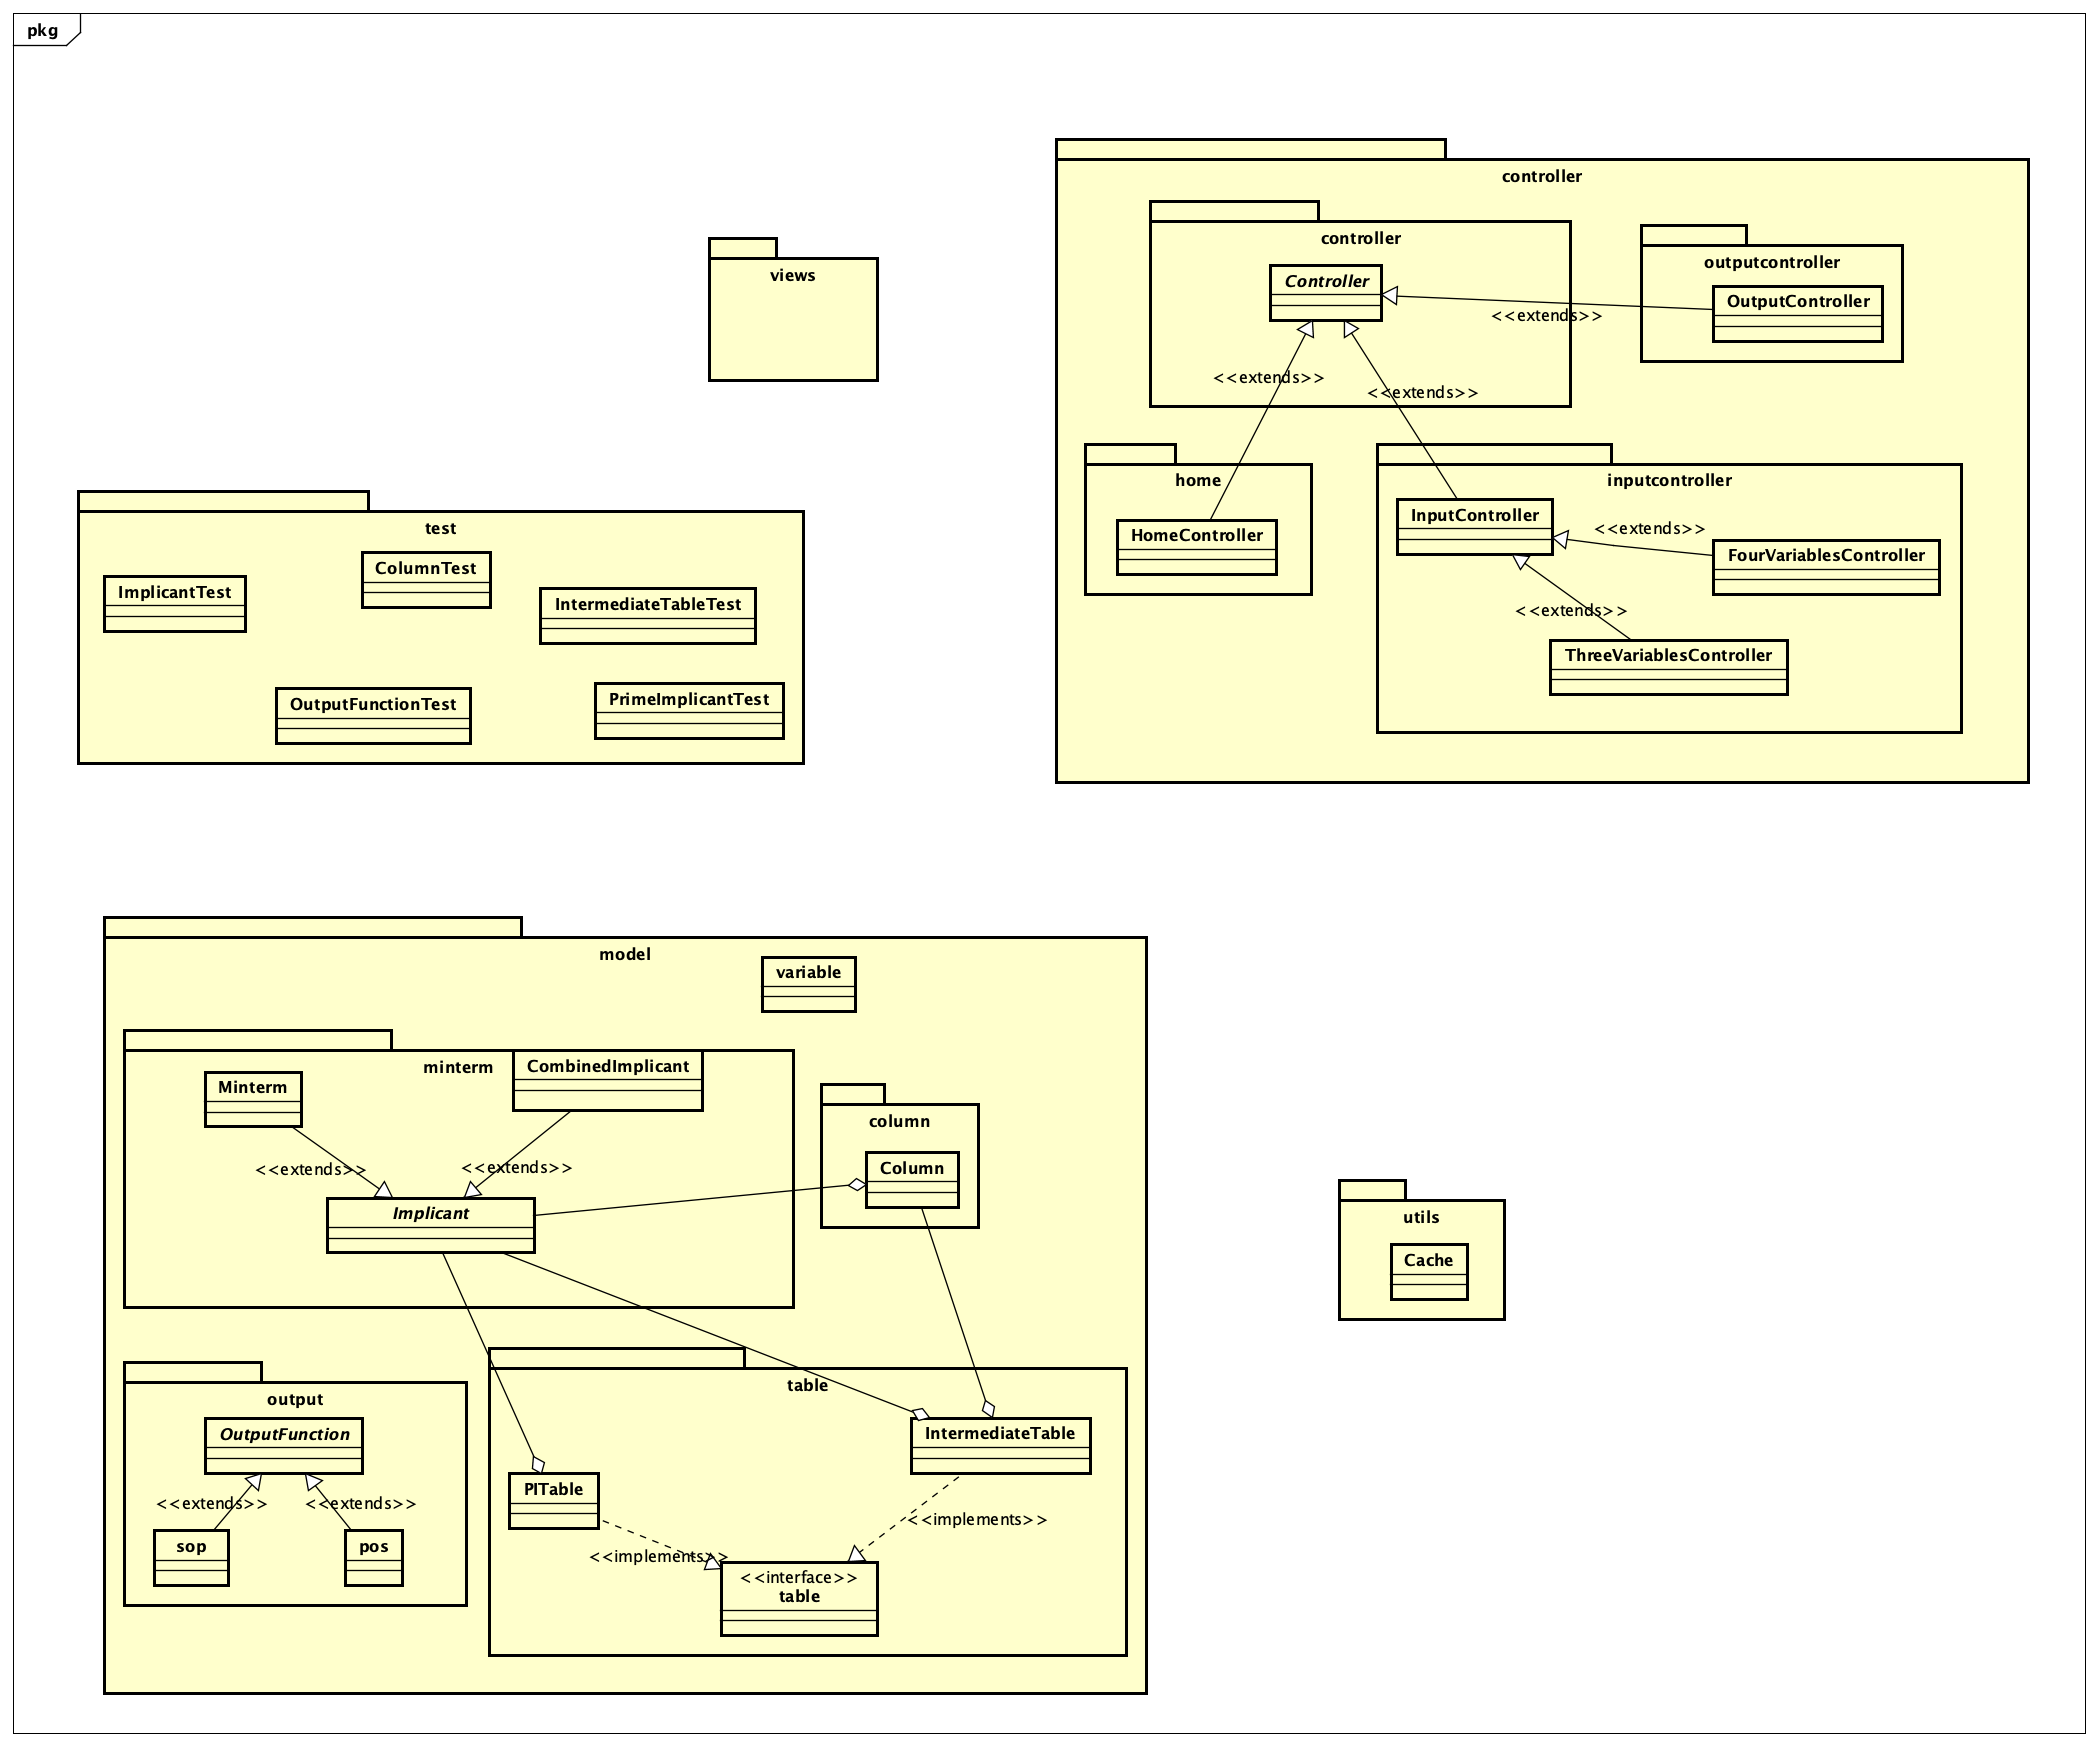
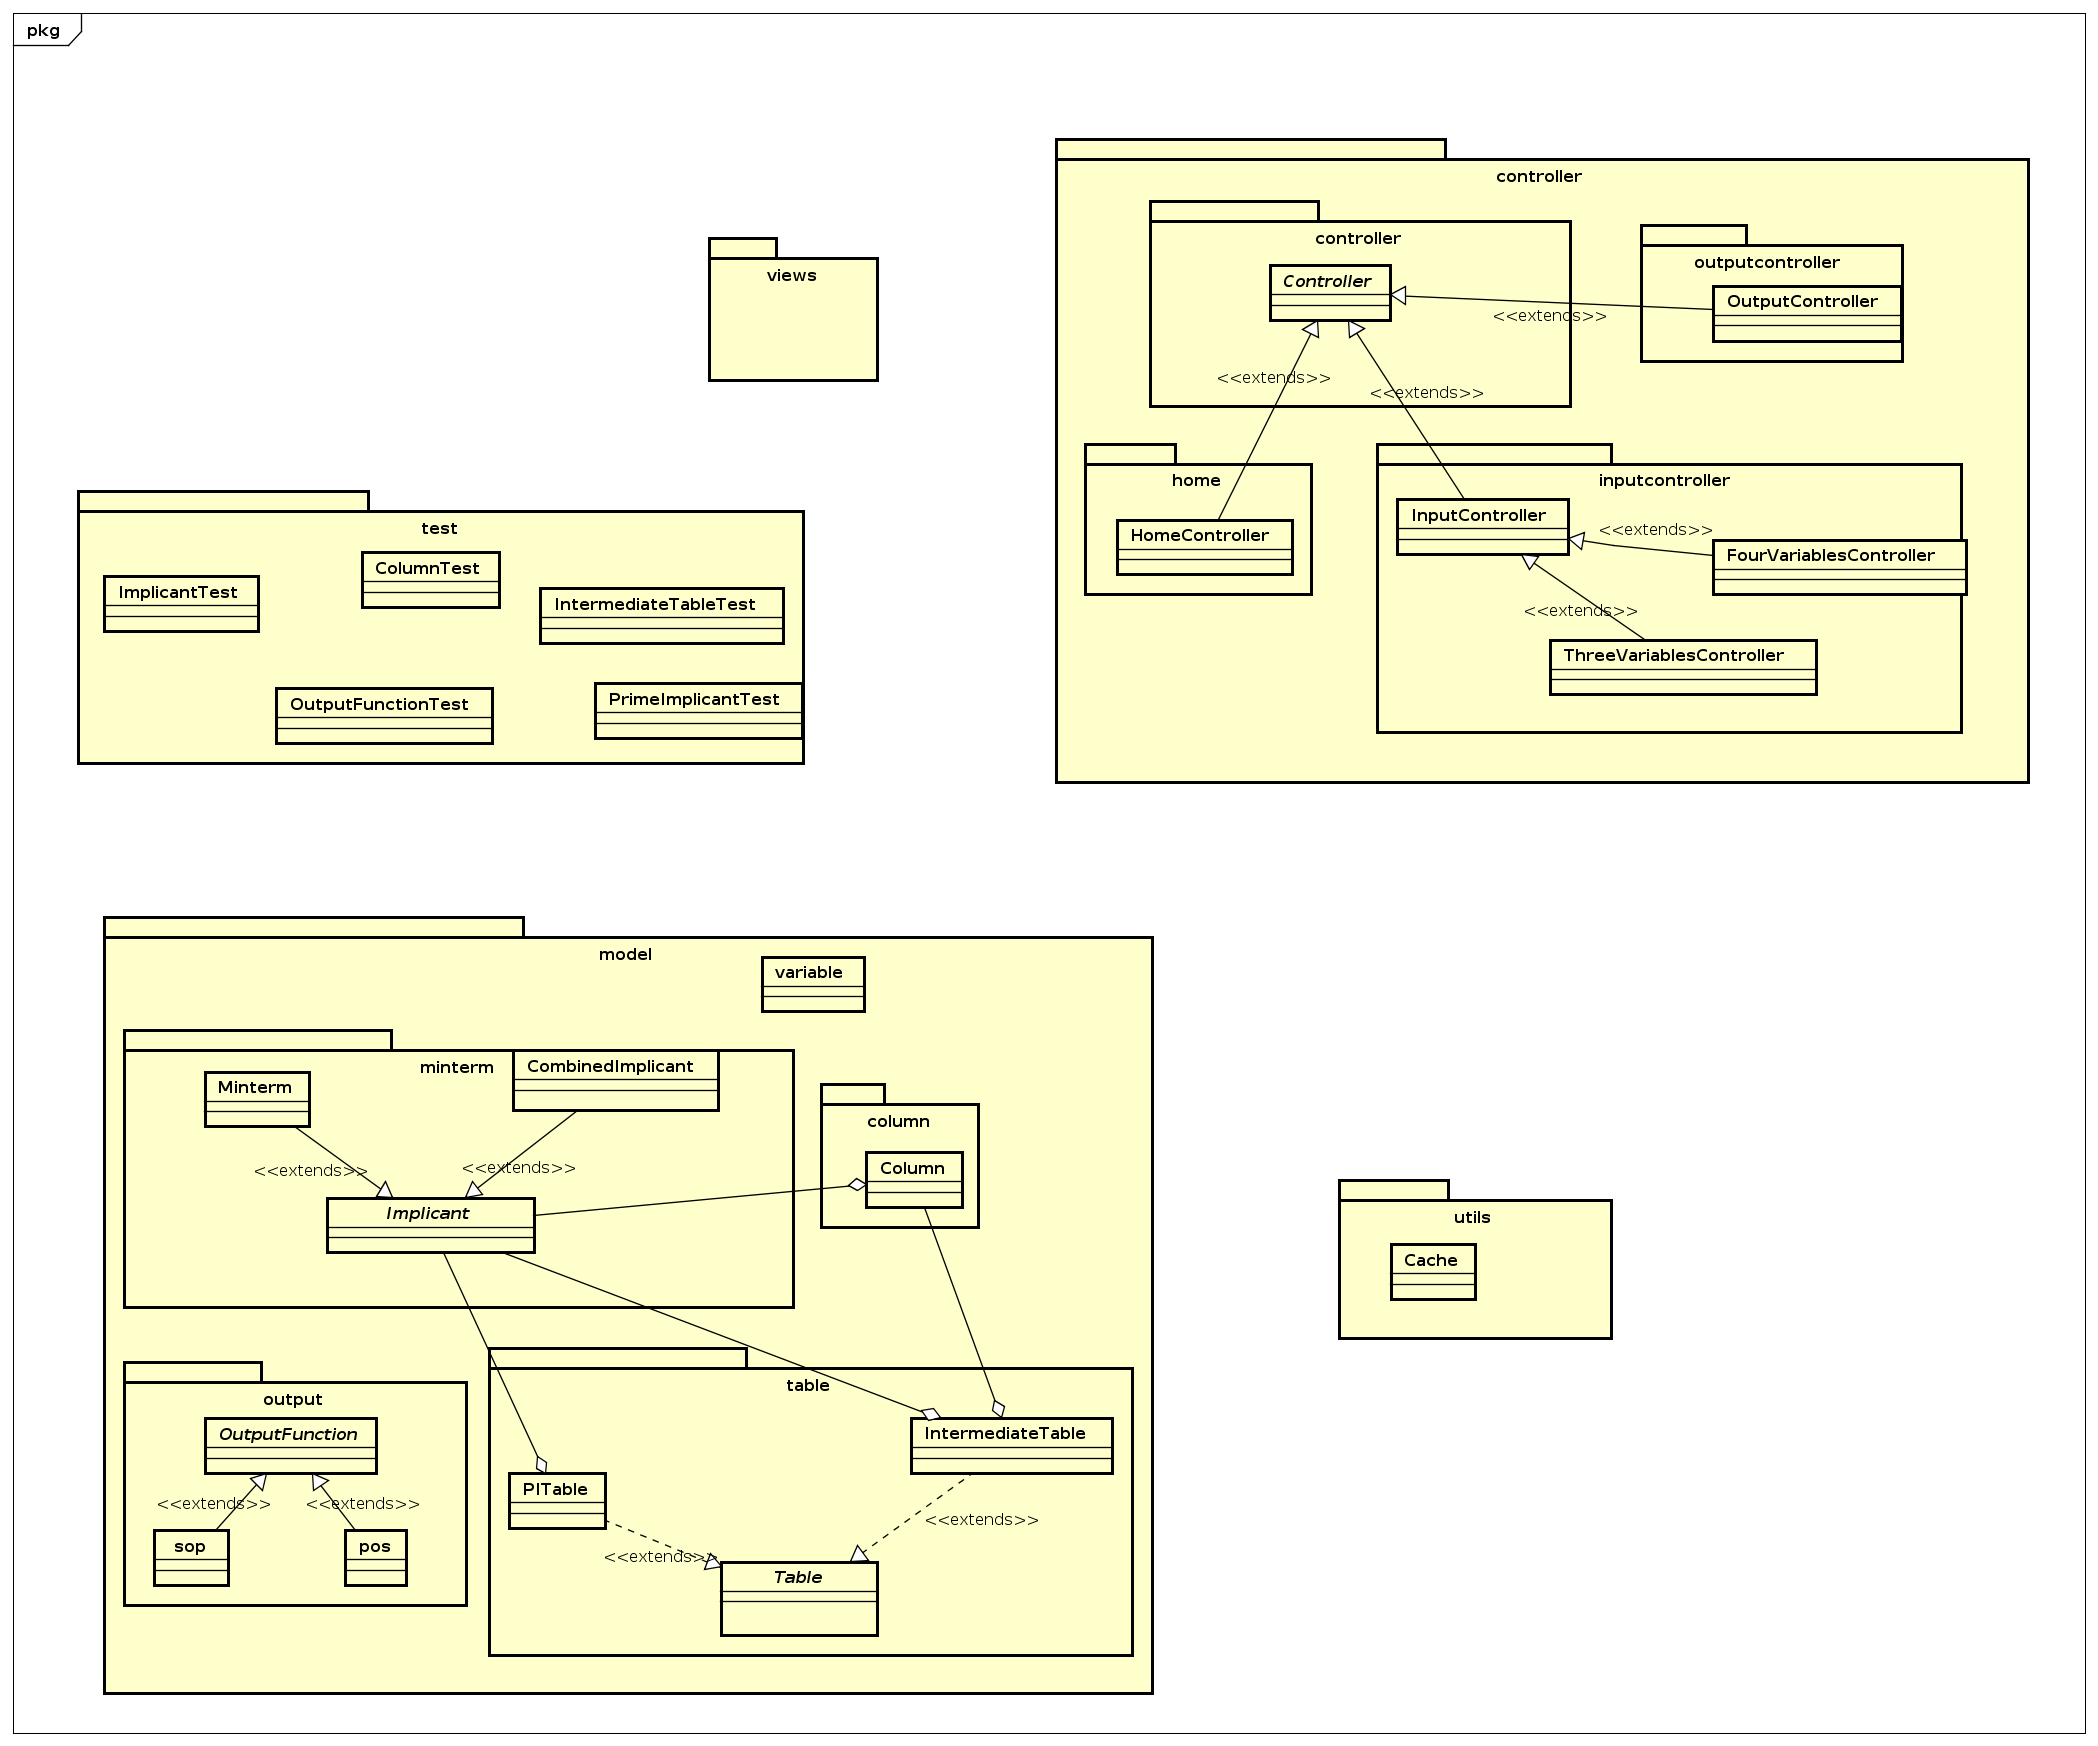
Change Table from Interface to Abstract class (#36)
* added abstract class getPrimeImplicants() to class Table

* change Table from interface to abstract

* update class diagram due to changing Table from interface to abstract

diff --git a/QuineMcCluskeyProject/src/hust/soict/ict/quinemccluskey/model/table/PITable.java b/QuineMcCluskeyProject/src/hust/soict/ict/quinemccluskey/model/table/PITable.java
@@ -5,13 +5,12 @@ import java.util.List;
 
 import hust.soict.ict.quinemccluskey.model.minterm.Implicant;
 
-public class PITable implements Table {
-    private List<Implicant> primeImplicants = new ArrayList<Implicant>();
-    private Table intermediateTable;
+public class PITable extends Table {
+    private Table table;
 
     public PITable(Table table) {
         primeImplicants = new ArrayList<Implicant>();
-        intermediateTable = table;
+        this.table = table;
     }
     
     public List<Implicant> getPrimeImplicants() {
@@ -20,9 +19,7 @@ public class PITable implements Table {
 
     @Override
     public void generate() {
-        if(intermediateTable instanceof IntermediateTable) {
-            primeImplicants = ((IntermediateTable) intermediateTable).getPrimeImplicants();
-        }
+        primeImplicants = table.getPrimeImplicants();
     }
 
     @Override

diff --git a/QuineMcCluskeyProject/src/hust/soict/ict/quinemccluskey/model/table/Table.java b/QuineMcCluskeyProject/src/hust/soict/ict/quinemccluskey/model/table/Table.java
@@ -1,11 +1,14 @@
 package hust.soict.ict.quinemccluskey.model.table;
 
+import java.util.ArrayList;
 import java.util.List;
 
 import hust.soict.ict.quinemccluskey.model.minterm.Implicant;
 
-public interface Table {
-    void generate();
-    void display();
-    List<Implicant> getPrimeImplicants();
+public abstract class Table {
+	protected List<Implicant> primeImplicants = new ArrayList<> ();
+	
+	public abstract void generate();
+	public abstract void display();
+	public abstract List<Implicant> getPrimeImplicants();
 }

diff --git a/QuineMcCluskeyProject/src/hust/soict/ict/quinemccluskey/model/table/IntermediateTable.java b/QuineMcCluskeyProject/src/hust/soict/ict/quinemccluskey/model/table/IntermediateTable.java
@@ -6,9 +6,8 @@ import java.util.List;
 import hust.soict.ict.quinemccluskey.model.column.Column;
 import hust.soict.ict.quinemccluskey.model.minterm.Implicant;
 
-public class IntermediateTable implements Table {
+public class IntermediateTable extends Table {
     private List<Column> columns = new ArrayList<Column>();
-    private List<Implicant> primeImplicants = new ArrayList<Implicant>();
 
     public IntermediateTable(Column c) {
         this.columns.add(c);
